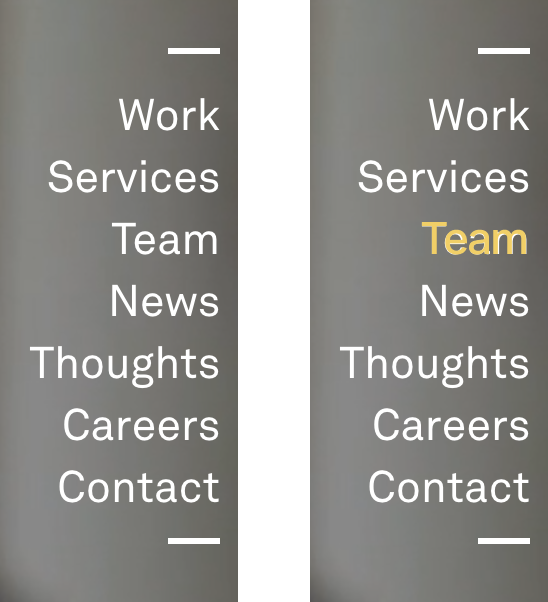
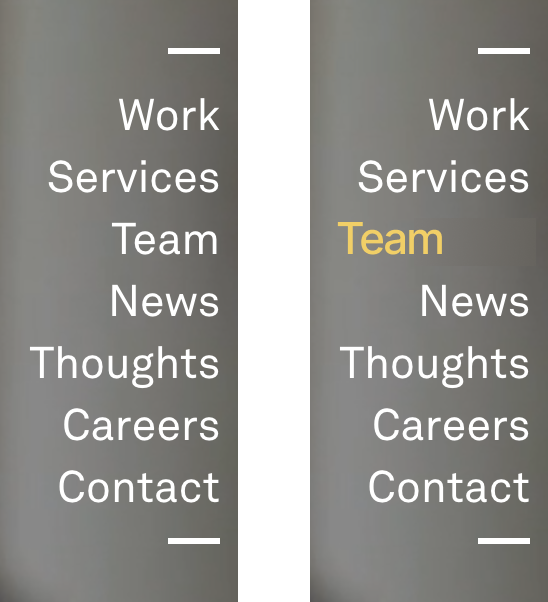
Updated Beta

Changed region(s): [[0.6204, 0.3588, 0.9617, 0.4485]]

diff --git a/idm241/beta/index.html b/idm241/beta/index.html
@@ -35,12 +35,14 @@
                 <div class="hoverStates">
                     <h4>On Hover</h4>
                     <ul>
-                        <li>Menu item text color eases-in from white #FFFFFF to their brand yellow #F1CF67</li>
+                        <li>Menu item text color eases-in from white #FFFFFF to their brand yellow #F1CF67 while:</li>
+                        <li>Menu item glides from being right aligned to being left aligned</li>
                     </ul>
                     <hr>
                     <h4>Off Hover</h4>
                     <ul>
-                        <li>Menu item text color eases-in from their brand yellow #F1CF67 to white #FFFFFF</li>
+                        <li>Menu item text color eases-in from their brand yellow #F1CF67 to white #FFFFFF while:</li>
+                        <li>Menu item glides from being left aligned to being right aligned</li>
                     </ul>
                 </div>
             </div>
@@ -70,12 +72,14 @@
                 <div class="hoverStates">
                     <h4>On Hover</h4>
                     <ul>
-                        <li>Menu item text color eases-in from white #FFFFFF to their brand yellow #F1CF67</li>
+                        <li>Menu item text color eases-in from white #FFFFFF to their brand yellow #F1CF67 while:</li>
+                        <li>Menu item glides from being right aligned to being left aligned</li>
                     </ul>
                     <hr>
                     <h4>Off Hover</h4>
                     <ul>
-                        <li>Menu item text color eases-in from their brand yellow #F1CF67 to white #FFFFFF</li>
+                        <li>Menu item text color eases-in from their brand yellow #F1CF67 to white #FFFFFF while:</li>
+                        <li>Menu item glides from being left aligned to being right aligned</li>
                     </ul>
                 </div>
             </div>
